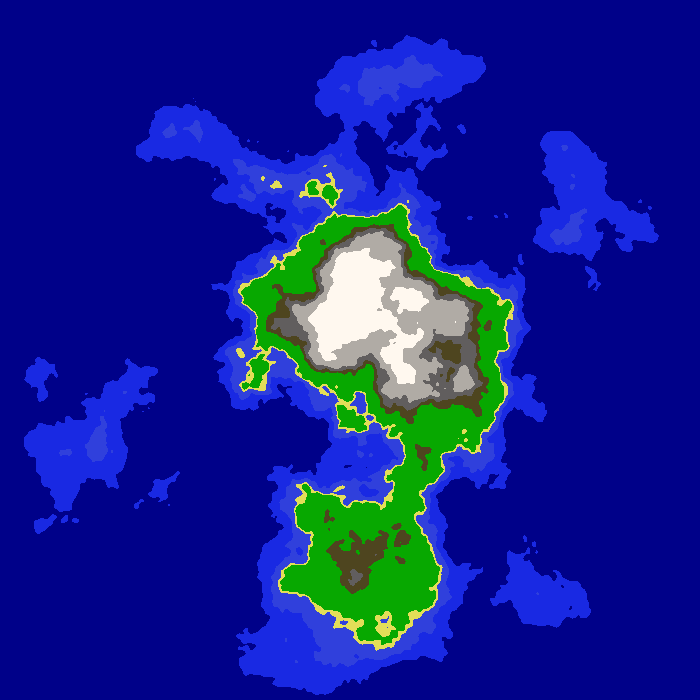
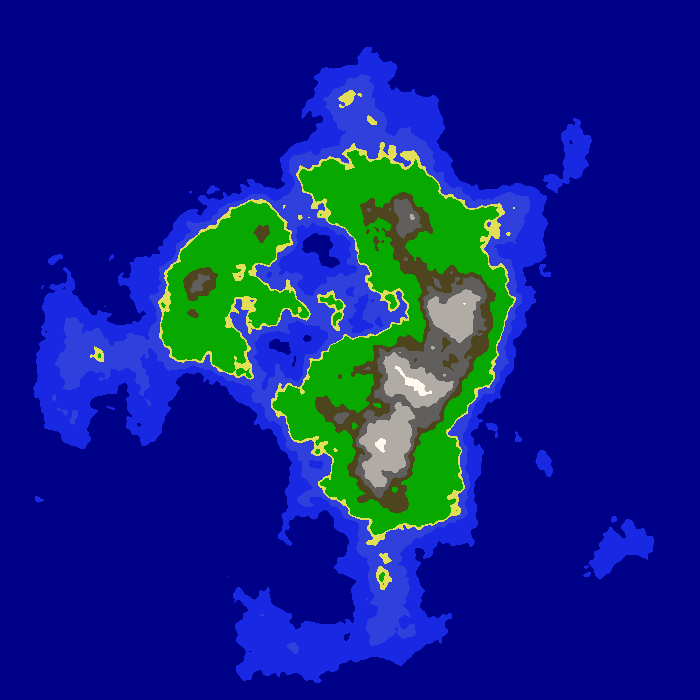
Change biome distribution, add class to combine temp, height, and humidity maps

diff --git a/src/main/java/com/zaccheus/model/map/Tile.java b/src/main/java/com/zaccheus/model/map/Tile.java
@@ -18,6 +18,7 @@ public class Tile {
     public Biome getBiome() {
         Biome biome = null;
 
+        //Height will always determine mountains and oceans, temp and humidity don't effect this
         if (height < DEEP_OCEAN_HEIGHT) {
             biome = DEEP_OCEAN;
         } else if (height < OCEAN_HEIGHT) {
@@ -26,10 +27,49 @@ public class Tile {
             biome = SHALLOW_OCEAN;
         } else if (height > MOUNTAIN_HEIGHT) {
             biome = MOUNTAIN;
-        }
+        } else {
 
-        if (biome == null) {
-            biome = SUBTROPICAL_DESERT; //Testing the above if statements
+            if (temperature < 0.25) {
+                if (humidity < 0.167) {
+                    biome = SCORCHED;
+                } else if (humidity < 0.333) {
+                    biome = BARE;
+                } else if (humidity < 0.500) {
+                    biome = TUNDRA;
+                } else if (humidity >= 0.500) {
+                    biome = SNOW;
+                }
+            } else if (temperature < 0.50) {
+                if (humidity < 0.333) {
+                    biome = TEMPERATE_DESERT;
+                } else if (humidity < 0.667) {
+                    biome = SHRUBLAND;
+                } else if (humidity >= 0.667) {
+                    biome = TIAGA;
+                }
+            } else if (temperature < 0.75) {
+                if (humidity < 0.167) {
+                    biome = TEMPERATE_DESERT;
+                } else if (humidity < 0.5) {
+                    biome = GRASSLAND;
+                } else if (humidity < 0.833) {
+                    biome = TEMP_DECIDUOUS_FOREST;
+                } else if (humidity >= 0.833) {
+                    biome = TEMPERATE_RAINFOREST;
+                }
+            } else if (temperature >= 0.75) {
+                if (humidity < 0.167) {
+                    biome = SUBTROPICAL_DESERT;
+                } else if (humidity < 0.333) {
+                    biome = GRASSLAND;
+                } else if (humidity < 0.667) {
+                    biome = TROPICAL_SEASONAL_FOREST;
+                } else if (humidity >= 0.667) {
+                    biome = TROPICAL_RAINFOREST;
+                }
+            } else {
+                System.out.println("I've made a huge mistake");
+            }
         }
 
         return biome;
@@ -39,5 +79,8 @@ public class Tile {
         return getBiome().getBiomeColor(getBiome());
     }
 
+    public void setHeight(double height) {
+        this.height = height;
+    }
 
 }

diff --git a/src/main/java/com/zaccheus/model/map/Biome.java b/src/main/java/com/zaccheus/model/map/Biome.java
@@ -4,15 +4,19 @@ import java.awt.*;
 
 public enum Biome {
 
-    TROPICAL_RAINFOREST,
-    SUBTROPICAL_DESERT,
-    SAVANNA,
-    TEMPERATE_RAINFOREST,
-    FOREST,
-    WOODLAND,
-    GRASSLAND,
-    BOREAL_FOREST,
+    SNOW,
     TUNDRA,
+    BARE,
+    SCORCHED,
+    TIAGA,
+    SHRUBLAND,
+    TEMPERATE_DESERT,
+    TEMPERATE_RAINFOREST,
+    TEMP_DECIDUOUS_FOREST,
+    GRASSLAND,
+    TROPICAL_RAINFOREST,
+    TROPICAL_SEASONAL_FOREST,
+    SUBTROPICAL_DESERT,
     MOUNTAIN,
     OCEAN,
     DEEP_OCEAN,
@@ -20,16 +24,20 @@ public enum Biome {
 
     public int getBiomeColor(Biome biome) {
         switch (biome) {
-            case TROPICAL_RAINFOREST: return new Color(11, 121, 11).getRGB();
-            case SUBTROPICAL_DESERT: return new Color(210, 210, 108).getRGB();
-            case SAVANNA: return new Color(126, 156, 39).getRGB();
-            case TEMPERATE_RAINFOREST: return new Color(44, 153, 44).getRGB();
-            case FOREST: return new Color(14, 88, 14).getRGB();
-            case WOODLAND: return new Color(8, 54, 8).getRGB();
-            case GRASSLAND: return new Color(101, 113, 47).getRGB();
-            case BOREAL_FOREST: return new Color(123, 160, 99).getRGB();
-            case TUNDRA: return new Color(178, 203, 203).getRGB();
-            case MOUNTAIN: return new Color(212, 212, 212).getRGB();
+            case SNOW: return new Color(210, 210, 210).getRGB();
+            case TUNDRA: return new Color(159, 167, 145).getRGB();
+            case BARE: return new Color(170, 170, 170).getRGB();
+            case SCORCHED: return new Color(111, 111, 111).getRGB();
+            case TIAGA: return new Color(132, 132, 107).getRGB();
+            case SHRUBLAND: return new Color(135, 147, 88).getRGB();
+            case TEMPERATE_DESERT: return new Color(191, 196, 118).getRGB();
+            case TEMPERATE_RAINFOREST: return new Color(105, 175, 84).getRGB();
+            case TEMP_DECIDUOUS_FOREST: return new Color(133, 168, 105).getRGB();
+            case GRASSLAND: return new Color(92, 121, 59).getRGB();
+            case TROPICAL_RAINFOREST: return new Color(33, 139, 23, 255).getRGB();
+            case TROPICAL_SEASONAL_FOREST: return new Color(46, 120, 28).getRGB();
+
+            case MOUNTAIN: return new Color(255, 255, 255).getRGB();
             case OCEAN: return new Color(25, 41, 227).getRGB();
             case DEEP_OCEAN: return new Color(0, 1, 137).getRGB();
             case SHALLOW_OCEAN: return new Color(48, 64, 220).getRGB();

diff --git a/src/main/java/com/zaccheus/model/MapCombiner.java b/src/main/java/com/zaccheus/model/MapCombiner.java
@@ -1,0 +1,35 @@
+package com.zaccheus.model;
+
+import com.zaccheus.model.map.MapGenerator;
+import com.zaccheus.model.map.Tile;
+import com.zaccheus.util.ArrayTools;
+import com.zaccheus.util.MapTools;
+
+import java.util.List;
+
+public class MapCombiner {
+
+    private double[][] heightMap;
+    private double[][] temperatureMap;
+    private double[][] humidityMap;
+
+    public MapCombiner() {
+        heightMap = new MapGenerator().generateMap(false);
+        temperatureMap = new MapGenerator()
+                .generateMap(false);
+        MapTools.applyFalloffMap(temperatureMap, 5, 230, 140);
+        humidityMap = new MapGenerator()
+                .generateMap(false);
+    }
+
+    public Tile[][] generateTileMap() {
+        Tile[][] output = new Tile[700][700];
+        for (int i = 0; i < heightMap.length; i++) { //Loop through height
+            for (int j = 0; j < heightMap[0].length; j++) { //Loop through width
+                output[i][j] = new Tile(heightMap[i][j], temperatureMap[i][j], humidityMap[i][j]);
+            }
+        }
+        return output;
+    }
+
+}

diff --git a/src/main/java/com/zaccheus/writer/MapWriter.java b/src/main/java/com/zaccheus/writer/MapWriter.java
@@ -1,5 +1,7 @@
 package com.zaccheus.writer;
 
+import com.zaccheus.model.map.Tile;
+
 import javax.imageio.ImageIO;
 import java.awt.*;
 import java.awt.image.BufferedImage;
@@ -12,6 +14,19 @@ import java.nio.file.Paths;
  * console in ASCII.
  */
 public final class MapWriter {
+
+
+    public static void generateTileImage(Tile[][] input) {
+        BufferedImage image = new BufferedImage(input.length, input[0].length, BufferedImage.TYPE_INT_RGB);
+
+        for (int y = 0; y < input[0].length; y++) {
+            for (int x = 0; x < input.length; x++) {
+                image.setRGB(x, y, input[x][y].getColor());
+            }
+
+            writeToImage(image, "TileMap");
+        }
+    }
 
     /**
      * Writes the map to a color image with the name "saved-map.png"

diff --git a/src/main/java/com/zaccheus/Application.java b/src/main/java/com/zaccheus/Application.java
@@ -1,5 +1,6 @@
 package com.zaccheus;
 
+import com.zaccheus.model.MapCombiner;
 import com.zaccheus.model.map.MapGenerator;
 import com.zaccheus.model.wave.WaveGenerator;
 import com.zaccheus.writer.MapWriter;
@@ -27,6 +28,10 @@ public class Application {
         System.out.println("\n\n\n\n"); //Space this out after the wave is printed
         MapGenerator asciiGen = new MapGenerator(2.9, 0.4, 4, 40, 50, 150);
         MapWriter.generateASCII(asciiGen.generateMap(false));
+
+        //Generate and save to the image TileMap.png a map using tiles
+        MapCombiner combiner = new MapCombiner();
+        MapWriter.generateTileImage(combiner.generateTileMap());
 
     }
 
